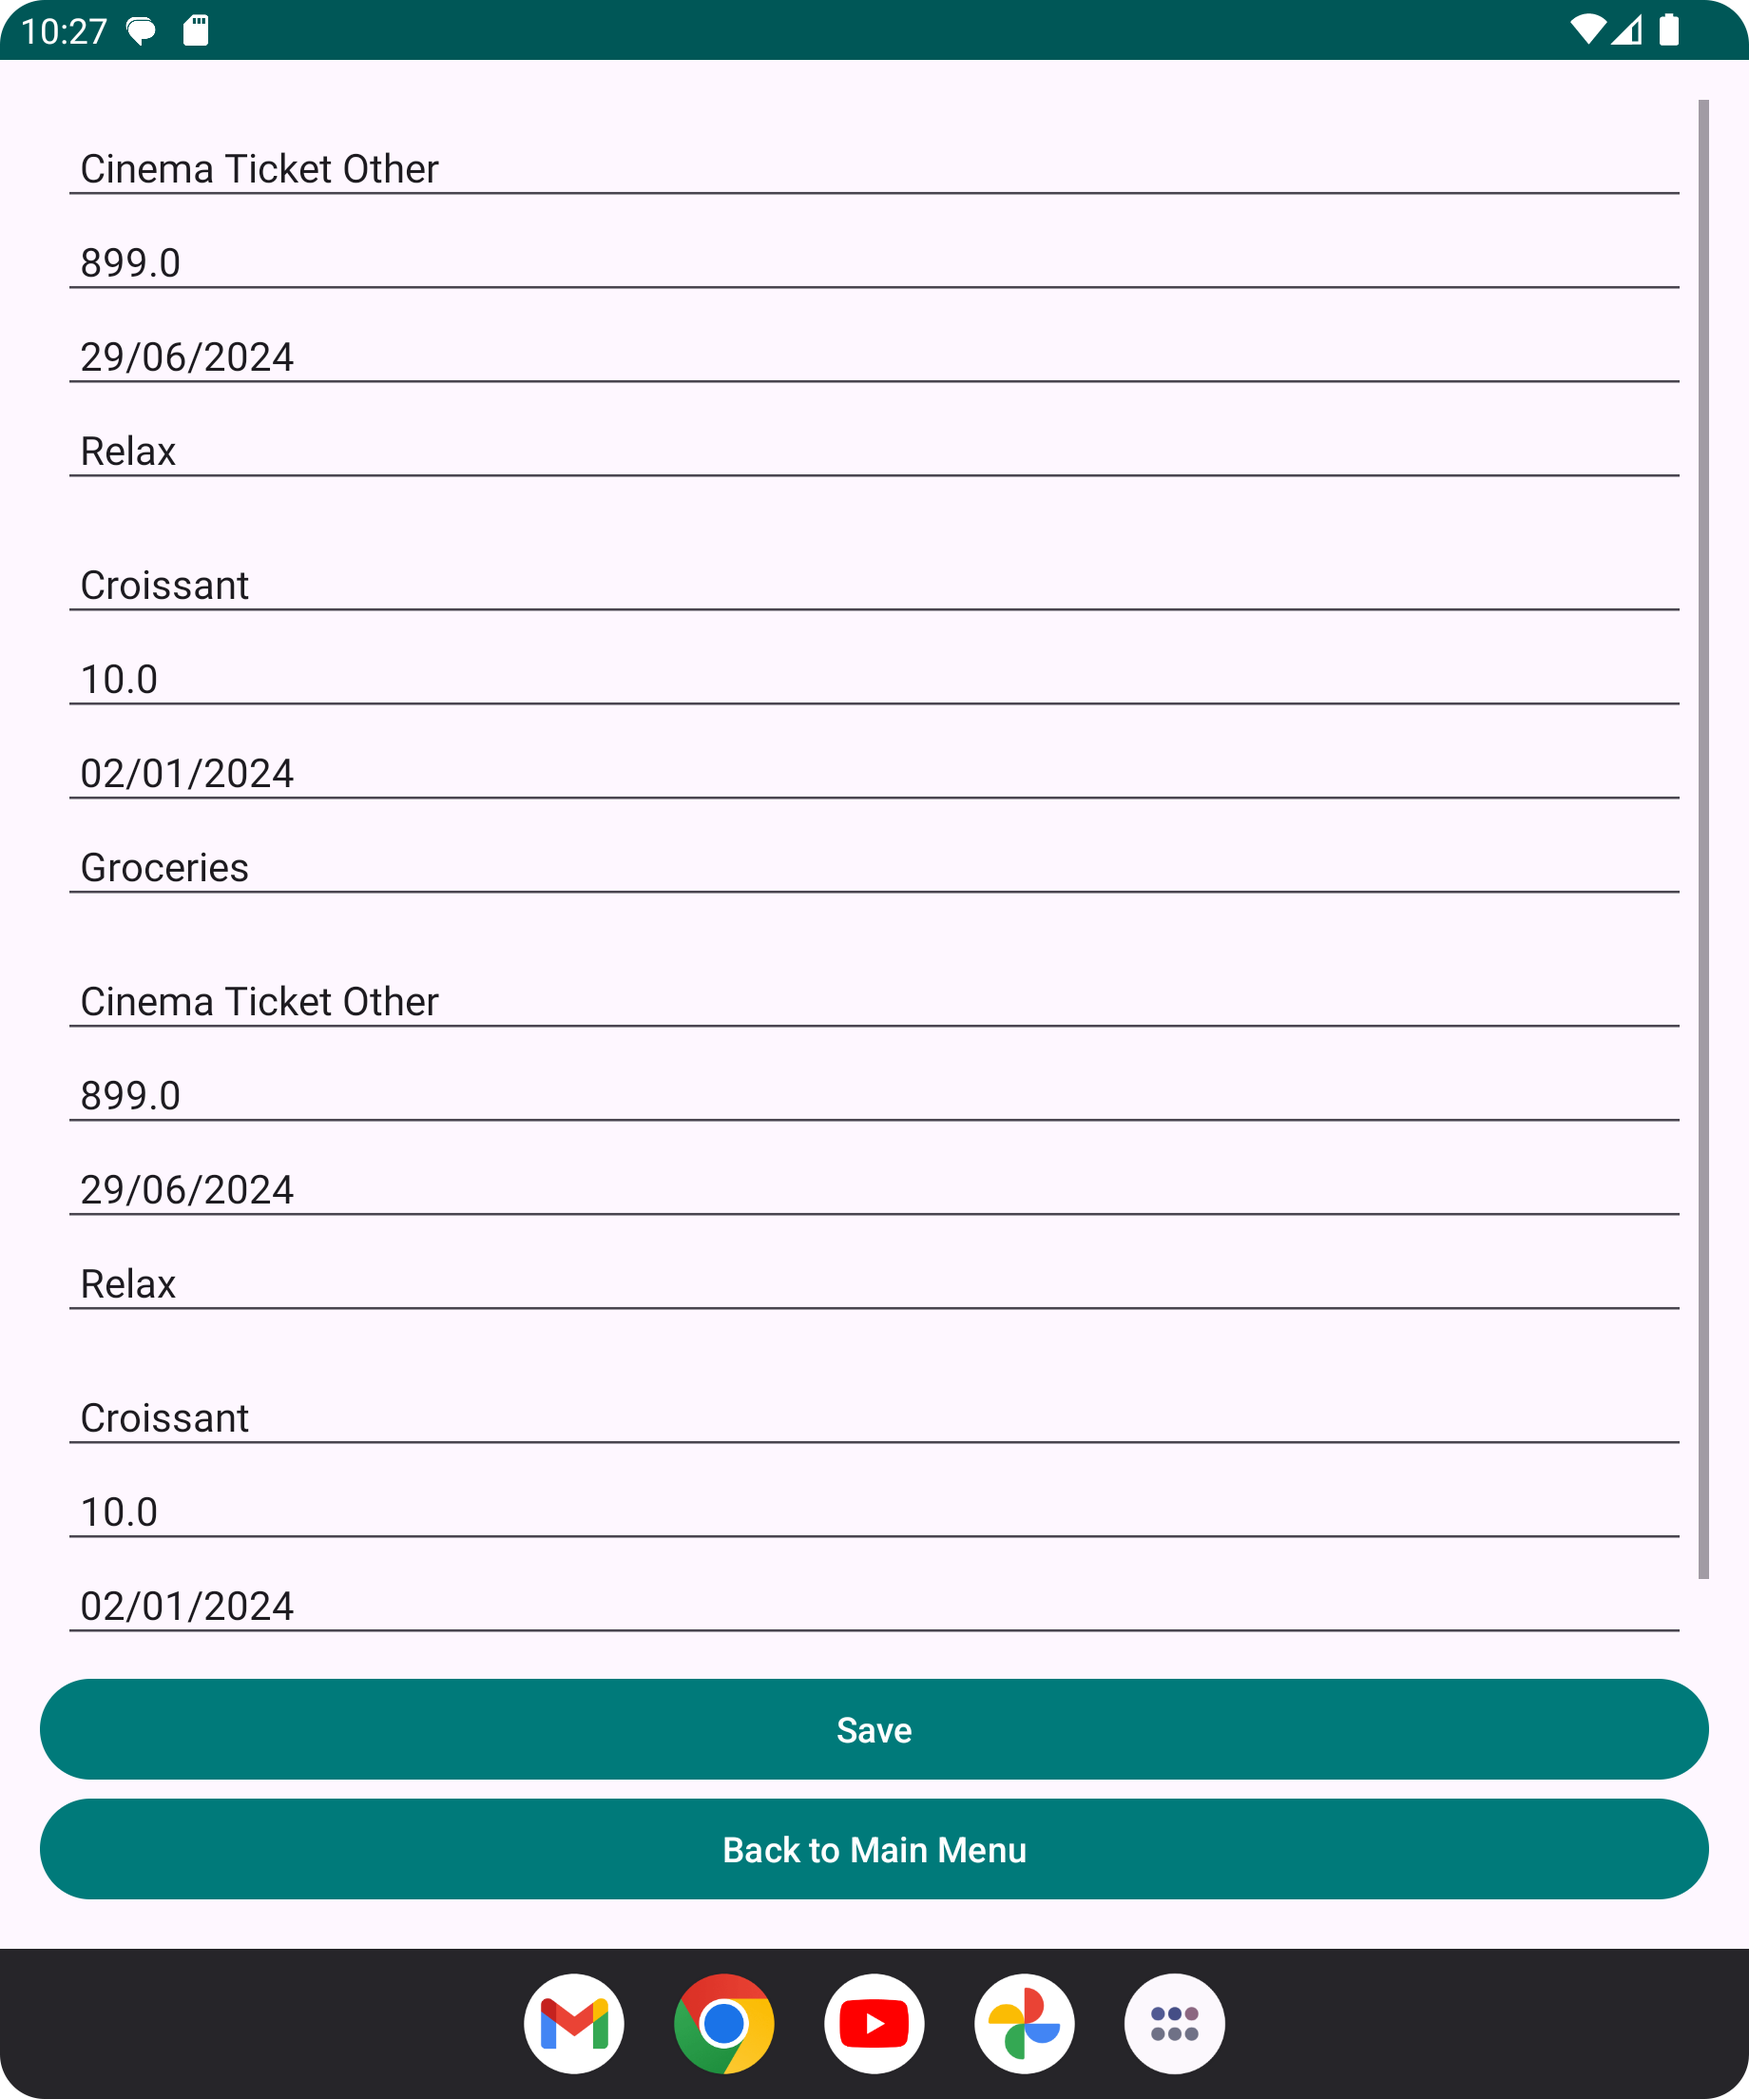
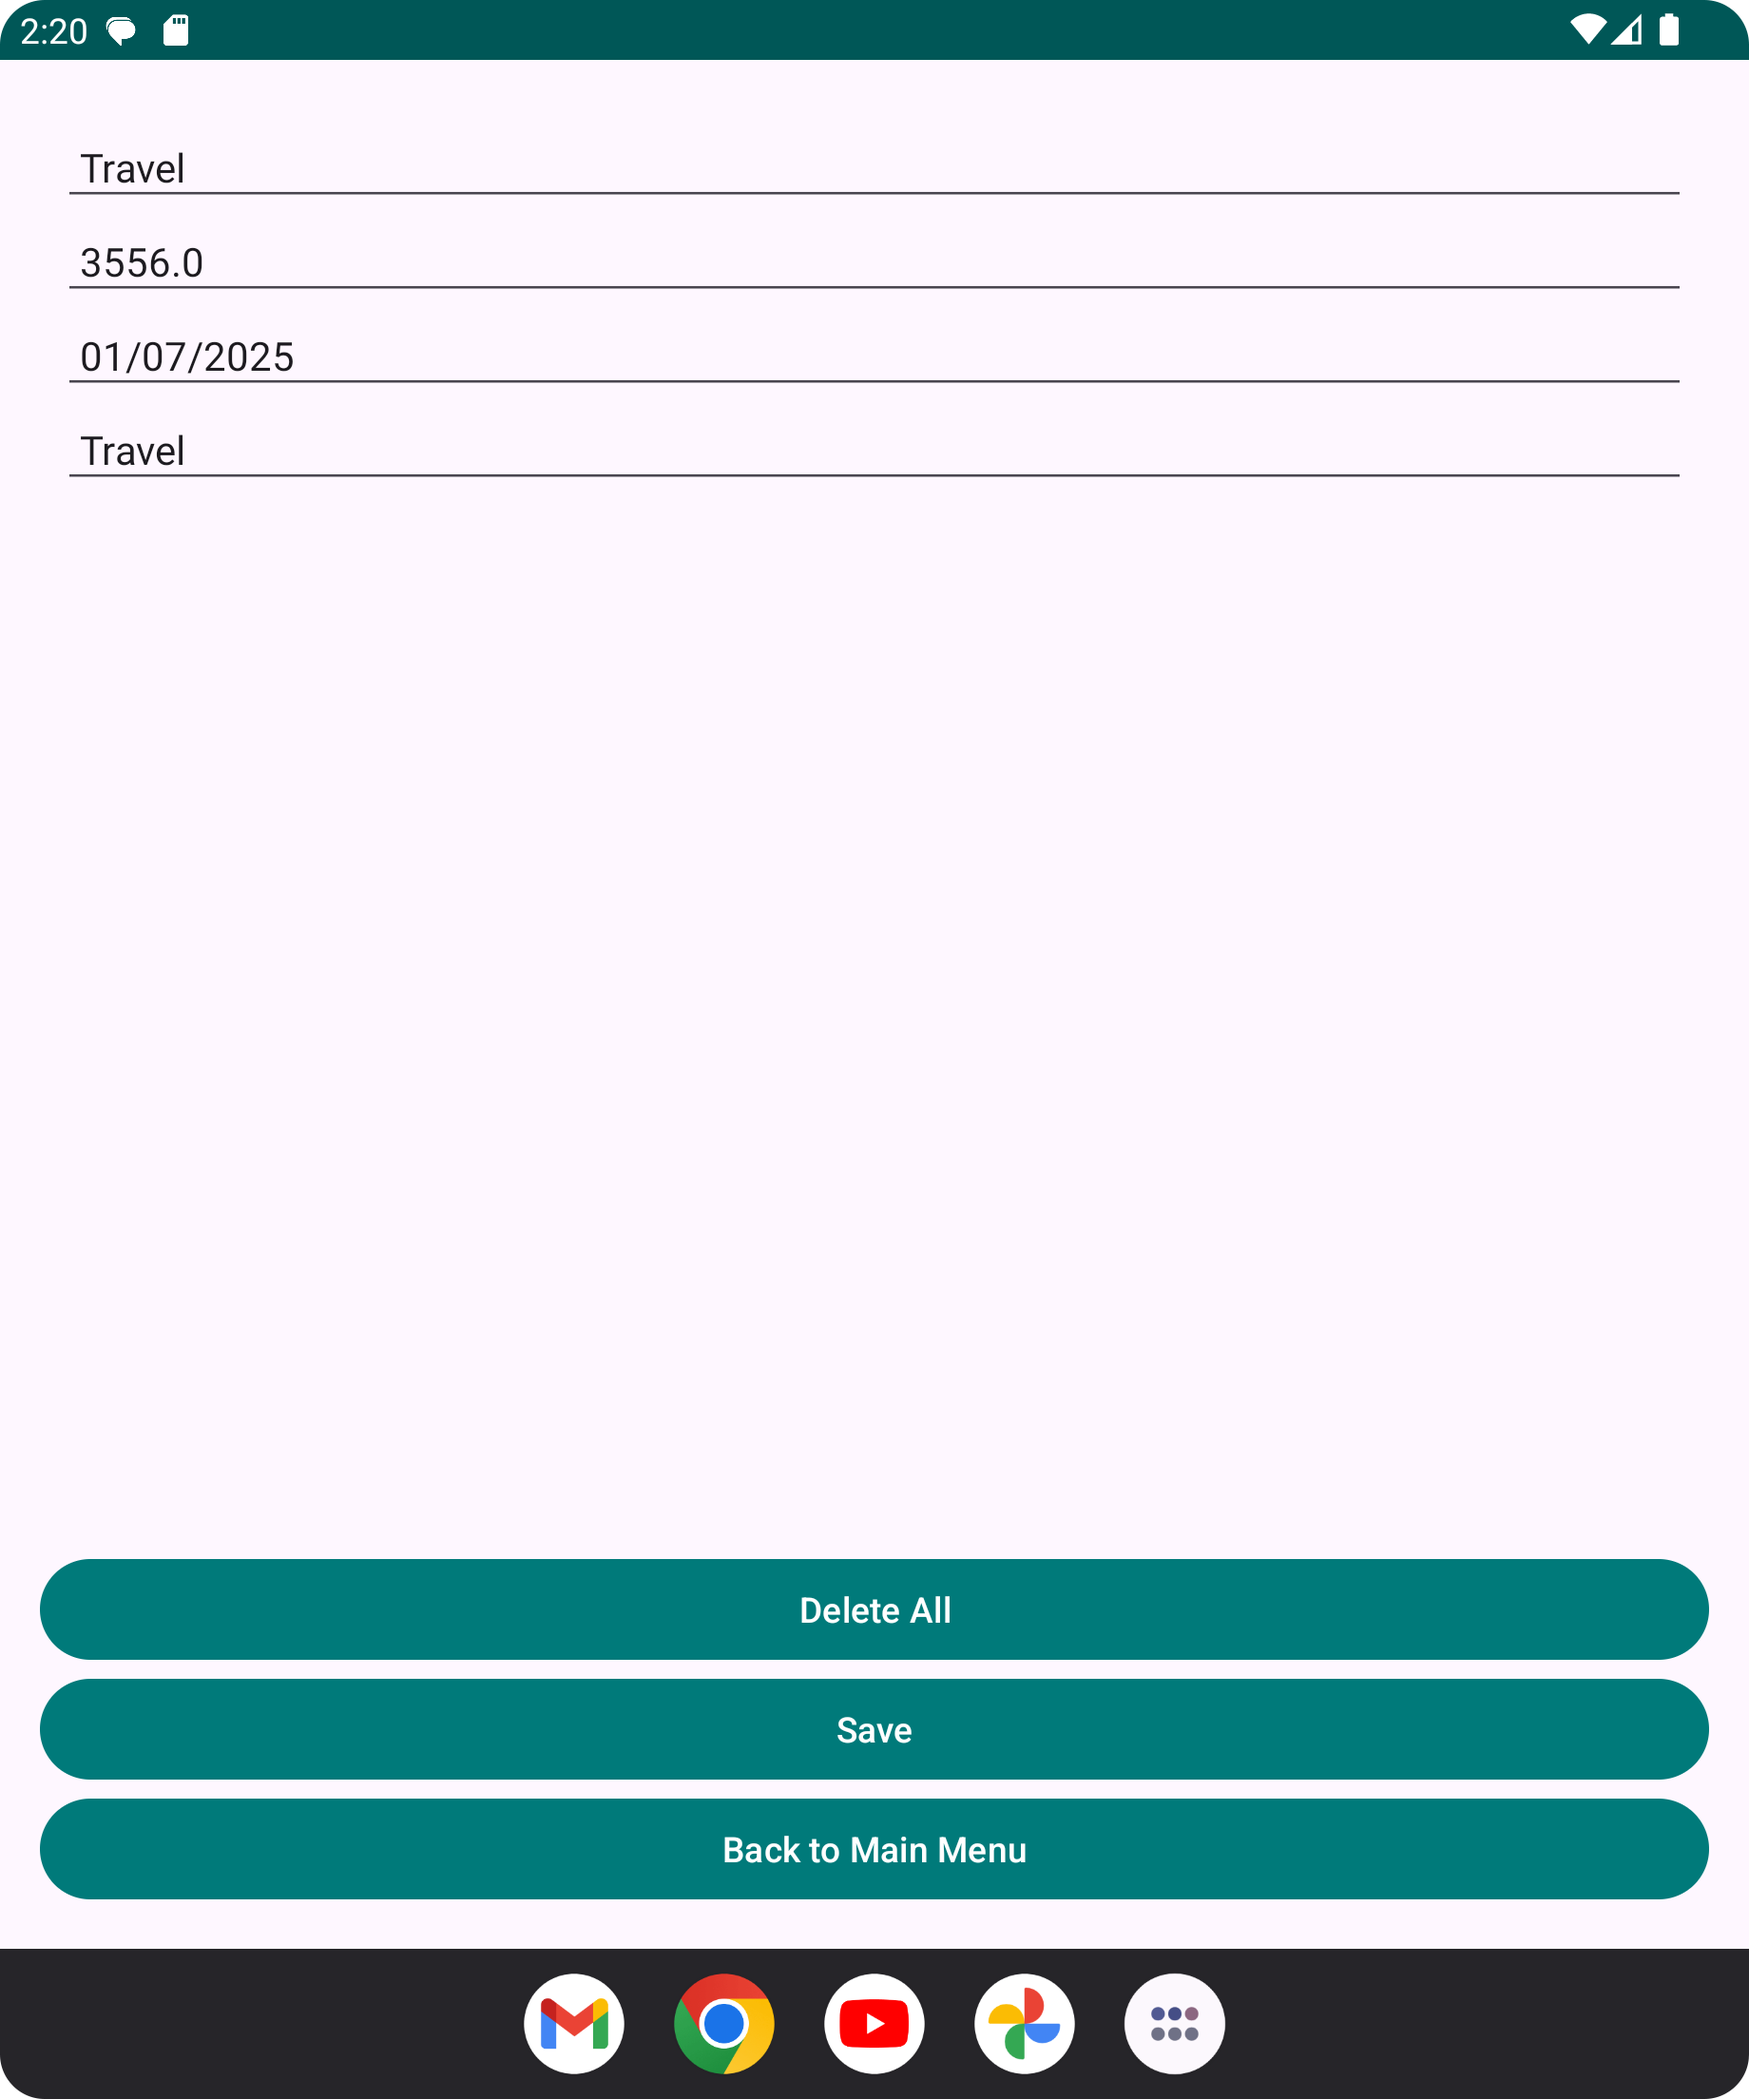
adding delete all expenses button in edit expenses activity

diff --git a/app/src/main/java/com/paras_test_android/assignment_paras/EditExpensesActivity.kt b/app/src/main/java/com/paras_test_android/assignment_paras/EditExpensesActivity.kt
@@ -11,6 +11,9 @@ import kotlinx.coroutines.CoroutineScope
 import kotlinx.coroutines.Dispatchers
 import kotlinx.coroutines.launch
 import kotlinx.coroutines.withContext
+import androidx.appcompat.app.AlertDialog
+
+
 
 /**
  * Class that edits expenses activity when using the main menu on upper left corner of the app
@@ -39,6 +42,11 @@ class EditExpensesActivity : AppCompatActivity() {
             // Save button listener
             binding.saveButton.setOnClickListener {
                 saveExpenses()
+            }
+
+            // DeleteAll button listener for the edit expense activity
+            binding.deleteAllButton.setOnClickListener {
+                showDeleteAllConfirmationDialog()
             }
 
             // Set up the back button using BackButtonHelper class
@@ -132,4 +140,36 @@ class EditExpensesActivity : AppCompatActivity() {
             }
         }
     }
+
+
+    /**
+     * Function that shows a confirmation dialog before deleting all expenses in editexpenses activity.
+     *
+     */
+    private fun showDeleteAllConfirmationDialog() {
+        val builder = AlertDialog.Builder(this)
+        builder.setTitle("Delete All Expenses")
+        builder.setMessage("REALLY delete ALL expenses in Room Database?")
+        builder.setPositiveButton("Yes") { _, _ ->
+            deleteAllExpenses()
+        }
+        builder.setNegativeButton("No", null)
+        builder.show()
+    }
+
+
+    /**
+     * Function that deletes all expenses from the Room database with delete all button.
+     */
+    private fun deleteAllExpenses() {
+        CoroutineScope(Dispatchers.IO).launch {
+            AppDatabase.getDatabase(application).expenseDao().deleteAllExpenses()
+            withContext(Dispatchers.Main) {
+                expensesAdapter.updateExpenses(emptyList())
+                Toast.makeText(this@EditExpensesActivity, getString(R.string.toast_statistics_deleted), Toast.LENGTH_SHORT).show()
+            }
+        }
+    }
+
+
 }

diff --git a/app/src/main/java/com/paras_test_android/assignment_paras/RecyclerViewMatcher.kt b/app/src/main/java/com/paras_test_android/assignment_paras/RecyclerViewMatcher.kt
@@ -25,7 +25,7 @@ class RecyclerViewMatcher(private val recyclerViewId: Int) {
 
             override fun matchesSafely(view: RecyclerView): Boolean {
                 val viewHolder = view.findViewHolderForAdapterPosition(position)
-                    ?: // has no item on such position
+                    ?:
                     return false
                 val targetView = viewHolder.itemView.findViewById<View>(targetViewId)
                 return targetView != null && targetView is EditText && targetView.visibility == View.VISIBLE && targetView.getGlobalVisibleRect(
